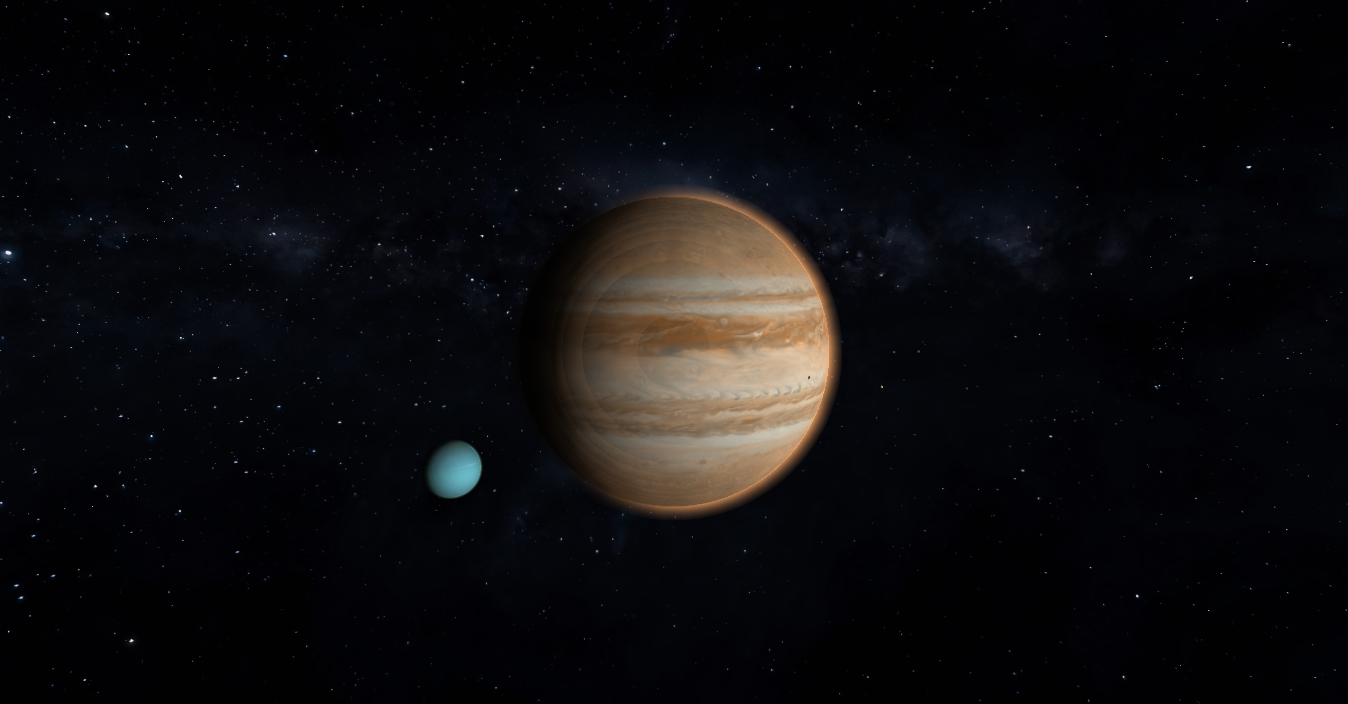
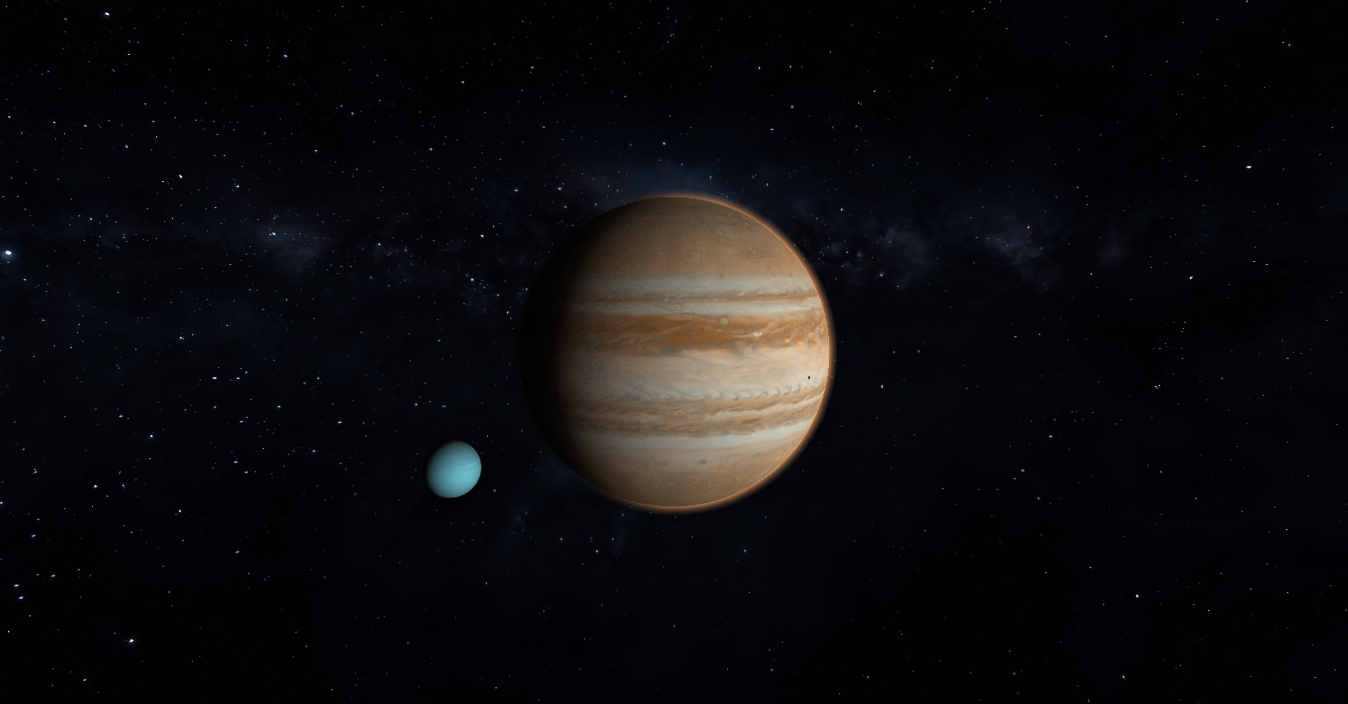
Stage C3c: per-pixel march jitter (kills concentric aliasing rings) + tighter shells (1.05x, scaleH 0.022)

Changed region(s): [[0.4674, 0.2812, 0.6231, 0.75], [0.4985, 0.25, 0.5297, 0.2812]]

diff --git a/shaders.cpp b/shaders.cpp
@@ -269,13 +269,19 @@ void main()
     float steps = clamp(floor((t1 - t0) / (uShellR * 0.02) + 0.5), 8.0, 64.0);
     float ds = (t1 - t0) / steps;
 
+    // per-pixel random phase of the sample grid: a fixed grid slides across
+    // the density profile as the ray path length changes, and the quadrature
+    // error forms visible concentric rings (contours of equal path length).
+    // Jittering breaks them into invisible noise
+    float jit = hash13(rd * 71.3);
+
     float trans = 1.0;    // accumulated transmittance
     vec3 acc = vec3(0.0); // accumulated in-scattered light
 
     for (float i = 0.0; i < 64.0; i++) {
         if (i >= steps)
             break;
-        float t = t0 + (i + 0.5) * ds;
+        float t = min(t0 + (i + 0.5 + jit) * ds, t1);
         vec3 p = uCamPos + rd * t;
         float h = length(p - uCenter) - uPlanetR;
         if (h < -1.0)

diff --git a/bodies.h b/bodies.h
@@ -27,9 +27,9 @@ struct Body
     // atmosphere (stage C: raymarched gas shell)
     bool atmosphereOn = false;
     QVector3D atmosphereColor{0.30f, 0.52f, 1.0f};
-    float atmosphereRadiusScale = 1.08f; // shell outer radius = ratio * radius (thin shell)
+    float atmosphereRadiusScale = 1.05f; // shell outer radius = ratio * radius (hugs the surface)
     float atmosphereDensity = 1.0f;      // base optical density at the surface
-    float atmosphereScaleHeightRatio = 0.035f; // scale height = ratio * radius (tight falloff)
+    float atmosphereScaleHeightRatio = 0.022f; // scale height = ratio * radius (tight falloff)
     float atmosphereNoise = 0.0f;        // 0..1, FBM detail amount
 
     // runtime
